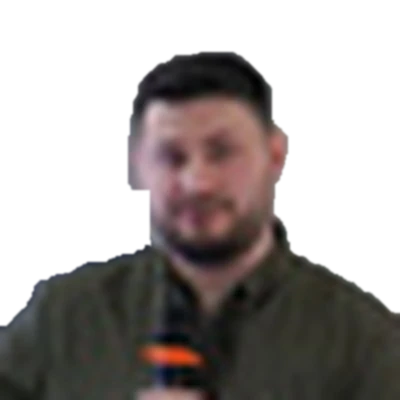
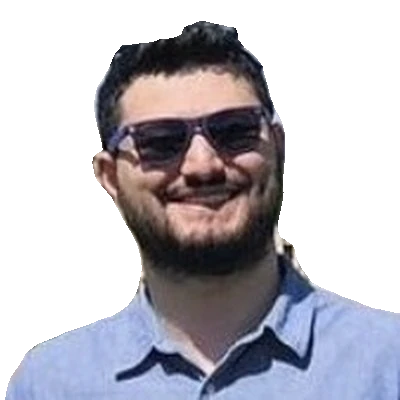
DF-56: replace Kevork Sulahian's portrait with the supplied photo
Cropped by face detection (202px source, no longer soft), cut out and
locked. Stale manual face box for his old upload removed.

diff --git a/docs/BOARD.md b/docs/BOARD.md
@@ -559,6 +559,11 @@ still a little rough; the real fix remains a sharper photo from him.
 The larger `birefnet-portrait` model was tried first and failed: **C: ran out of space** mid-
 download, and it is at ~0.3 GB free. That also blocked the Docker rebuild for this task.
 
+**Kevork Sulahian's portrait replaced** later the same day with a photo Davit supplied (outdoor,
+1098×1133). His stale manual face box in `speaker-faces.json` was removed — it described the old
+upload — and the detector found the face: 202px source crop, no longer soft. Cut out by the script
+with no hand work, so his `cutoutNote` is gone. Locked against sync like the others.
+
 DF-57 (new): team photos were never face-cropped (DF-54 covered speakers only). Martin, Roland,
 Armen, Rohan and Vardan are full-body or waist-up shots, and on a pastel circle the size
 difference against the speaker grid is plain. Not fixed here: separate task.
